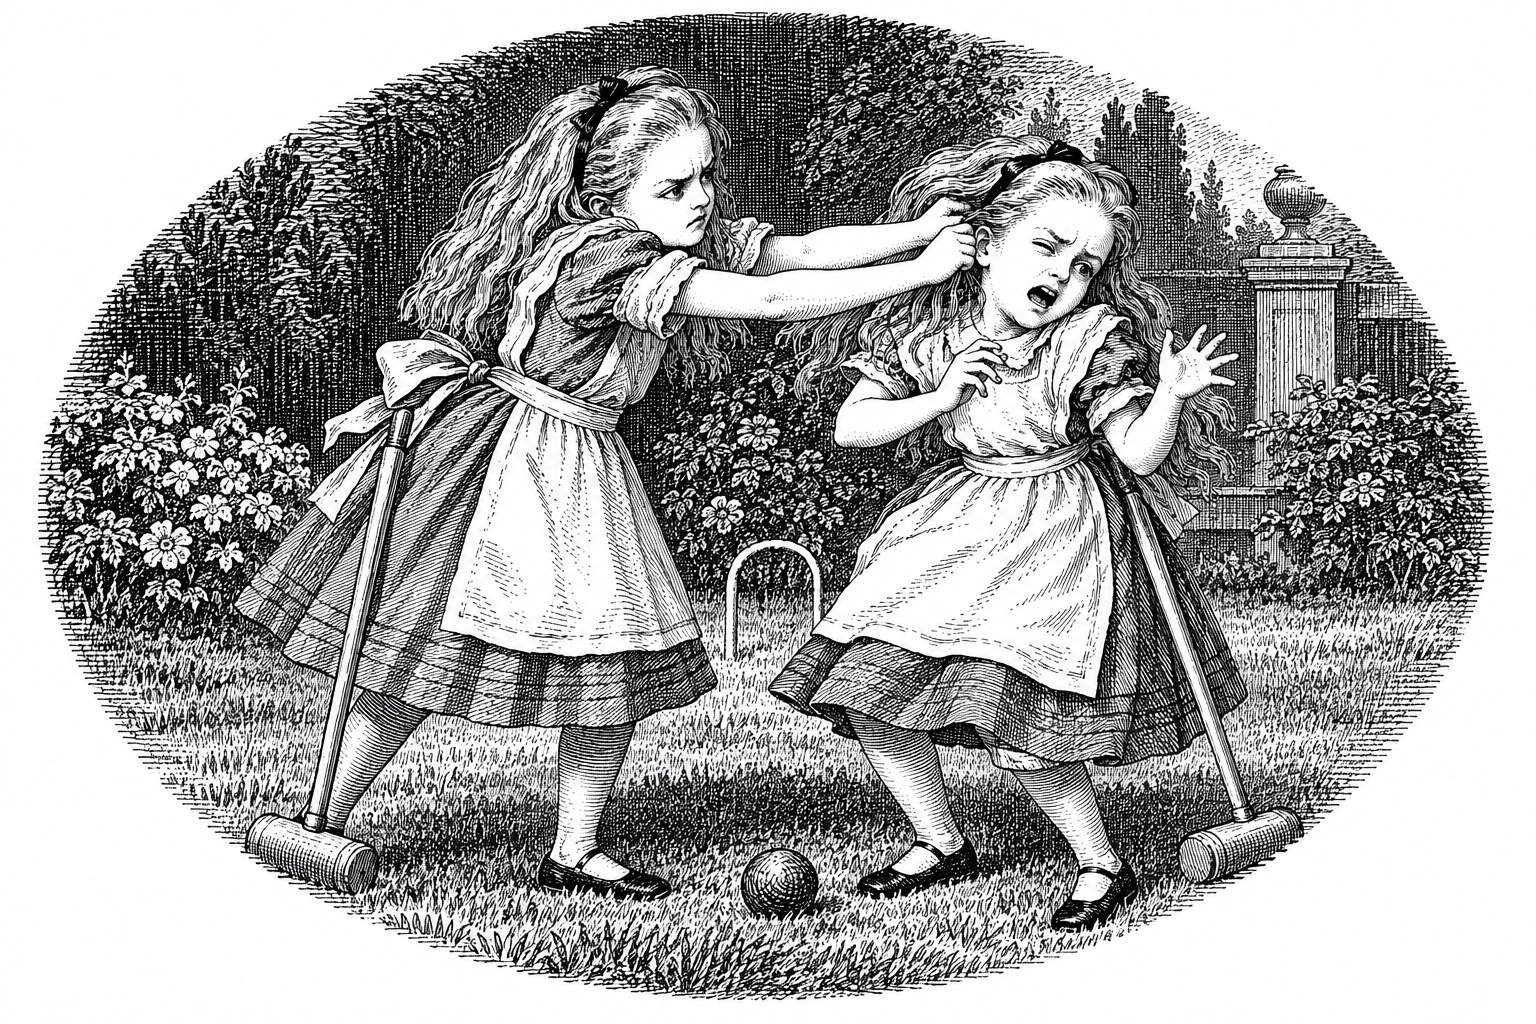
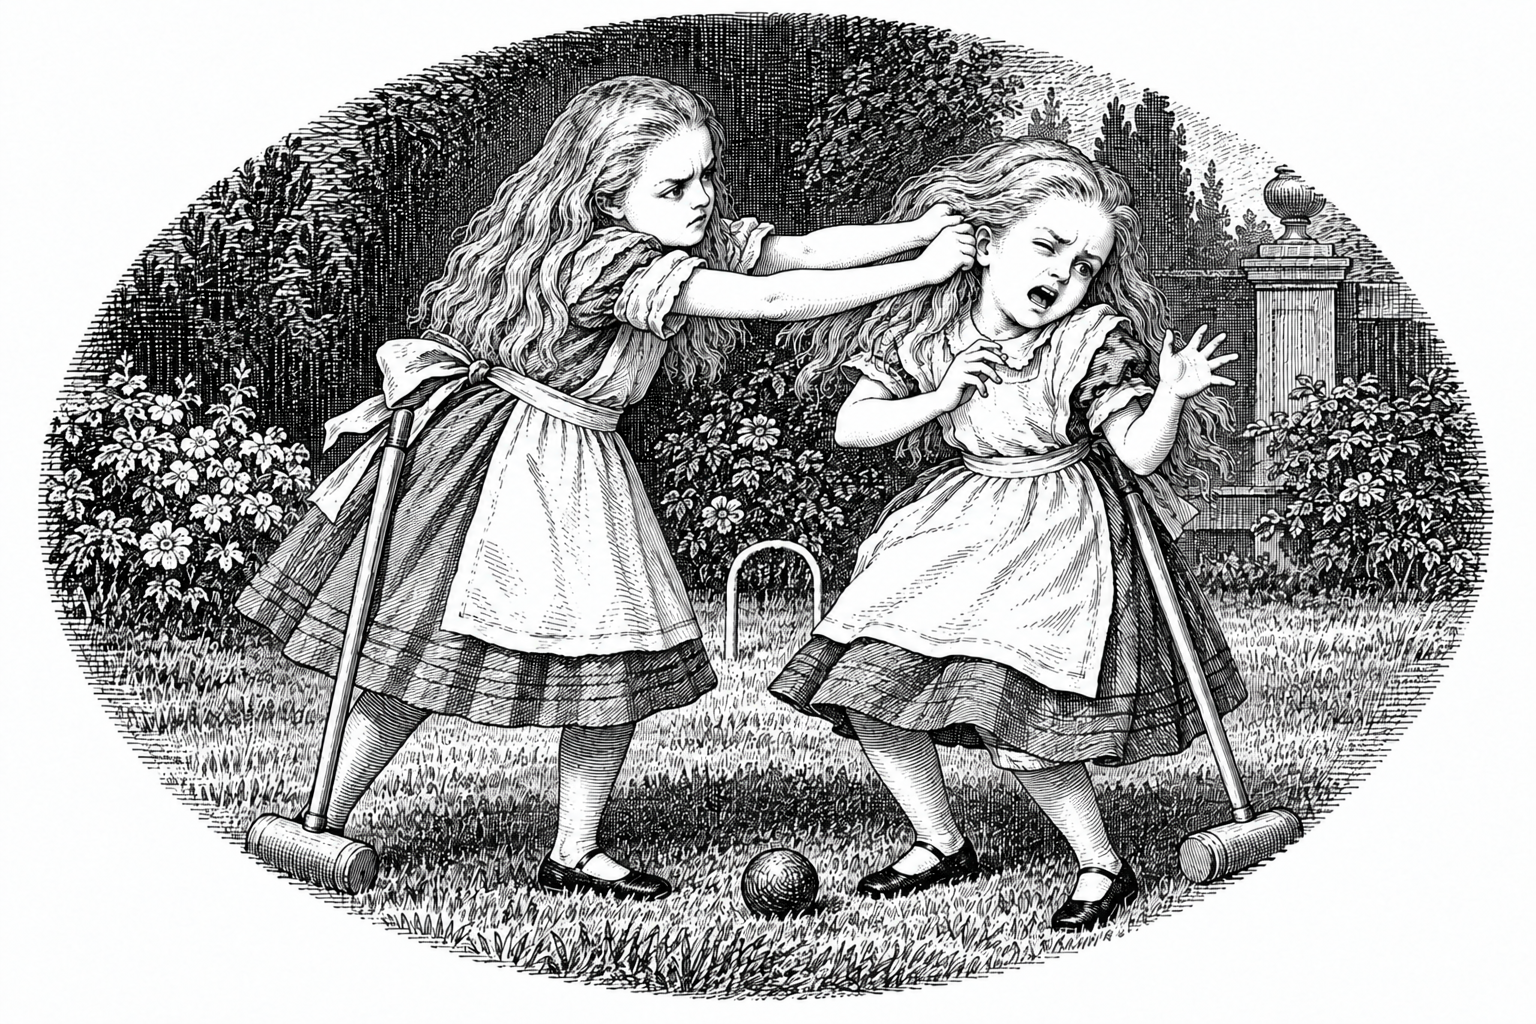
Chapter I thoughts: Alice redrawn without a hair bow in the knife, poison, telescope and croquet vignettes (model sheet attached; owner)
Claude-Session: https://claude.ai/code/session_01JLwjHTre9qSRtmM6Ke648R

diff --git a/PROVENANCE.md b/PROVENANCE.md
@@ -98,11 +98,11 @@ Every shipped asset is listed here with its source. AI-generated or AI-modified 
 | ai_vignette_crocodile | `public/art/ai/vignettes/crocodile.webp` | AI | Generated in the same conversation (docs/ASSETS_MASTER.md, Chapter II prompt 32); original in `source/ai/vignette_crocodile.webp` | OpenAI ChatGPT (GPT-6 chat); OpenAI image generation, exact image model not disclosed; received 2026-10-11 | Whole image generated. Paper-tinted, fitted to the thought oval and outlined (`tools/ch2_art.py`). Used in Chapter II. | 2026-10-11 | Owner (generated), Claude Code (processed) |
 | ai_vignette_histories | `public/art/ai/vignettes/histories.webp` | AI | Chapter I prompt 44; original in `source/ai/vignette_histories.png`, style from `source/ai/vignette_dinah.webp` | OpenAI gpt-image-2.5-sunburst via the API (generated by Claude Code, 2026-10-14) | Whole image generated. Paper-tinted, fitted to the thought oval and outlined (`tools/ch1_art.py`). Used in Chapter I, the hall. | 2026-10-14 | Owner (requested), Claude Code (generated, processed) |
 | ai_vignette_poker | `public/art/ai/vignettes/poker.webp` | AI | Chapter I prompt 27; original in `source/ai/vignette_poker.png`, style from `source/ai/vignette_dinah.webp` | OpenAI gpt-image-2.5-sunburst via the API (generated by Claude Code, 2026-10-14) | Whole image generated. Paper-tinted, fitted to the thought oval and outlined (`tools/ch1_art.py`). The poker's tip coloured red-hot in code (COLOR.md). Used in Chapter I, the hall. | 2026-10-14 | Owner (requested), Claude Code (generated, processed) |
-| ai_vignette_knife | `public/art/ai/vignettes/knife.webp` | AI | Chapter I prompt 28; original in `source/ai/vignette_knife.png`, style from `source/ai/vignette_dinah.webp` | OpenAI gpt-image-2.5-sunburst via the API (generated by Claude Code, 2026-10-14) | Whole image generated. Paper-tinted, fitted to the thought oval and outlined (`tools/ch1_art.py`). Used in Chapter I, the hall. | 2026-10-14 | Owner (requested), Claude Code (generated, processed) |
-| ai_vignette_poison | `public/art/ai/vignettes/poison.webp` | AI | Chapter I prompt 29, redrawn close up so POISON can be read (owner); original in `source/ai/vignette_poison.png`, style from `source/ai/vignette_dinah.webp` | OpenAI gpt-image-2.5-sunburst via the API (generated by Claude Code, 2026-10-14) | Whole image generated. Paper-tinted, fitted to the thought oval and outlined (`tools/ch1_art.py`). Used in Chapter I, the hall. | 2026-10-14 | Owner (requested), Claude Code (generated, processed) |
-| ai_vignette_telescope | `public/art/ai/vignettes/telescope.webp` | AI | Chapter I prompt 45; original in `source/ai/vignette_telescope.png`, style from `source/ai/vignette_dinah.webp` | OpenAI gpt-image-2.5-sunburst via the API (generated by Claude Code, 2026-10-14) | Whole image generated. Paper-tinted, fitted to the thought oval and outlined (`tools/ch1_art.py`). Used in Chapter I, the hall. | 2026-10-14 | Owner (approved), Claude Code (generated, processed) |
+| ai_vignette_knife | `public/art/ai/vignettes/knife.webp` | AI | Chapter I prompt 28; original in `source/ai/vignette_knife.png`, style from `source/ai/vignette_dinah.webp`; redrawn with the model sheet so Alice has no hair bow (owner) | OpenAI gpt-image-2.5-sunburst via the API (generated by Claude Code, 2026-10-14) | Whole image generated. Paper-tinted, fitted to the thought oval and outlined (`tools/ch1_art.py`). Used in Chapter I, the hall. | 2026-10-14 | Owner (requested), Claude Code (generated, processed) |
+| ai_vignette_poison | `public/art/ai/vignettes/poison.webp` | AI | Chapter I prompt 29, redrawn close up so POISON can be read (owner); original in `source/ai/vignette_poison.png`, style from `source/ai/vignette_dinah.webp`; redrawn with the model sheet so Alice has no hair bow (owner) | OpenAI gpt-image-2.5-sunburst via the API (generated by Claude Code, 2026-10-14) | Whole image generated. Paper-tinted, fitted to the thought oval and outlined (`tools/ch1_art.py`). Used in Chapter I, the hall. | 2026-10-14 | Owner (requested), Claude Code (generated, processed) |
+| ai_vignette_telescope | `public/art/ai/vignettes/telescope.webp` | AI | Chapter I prompt 45; original in `source/ai/vignette_telescope.png`, style from `source/ai/vignette_dinah.webp`; redrawn with the model sheet so Alice has no hair bow (owner) | OpenAI gpt-image-2.5-sunburst via the API (generated by Claude Code, 2026-10-14) | Whole image generated. Paper-tinted, fitted to the thought oval and outlined (`tools/ch1_art.py`). Used in Chapter I, the hall. | 2026-10-14 | Owner (approved), Claude Code (generated, processed) |
 | ai_vignette_candle | `public/art/ai/vignettes/candle.webp` | AI | Chapter I prompt 32; original in `source/ai/vignette_candle.png`, style from `source/ai/vignette_dinah.webp` | OpenAI gpt-image-2.5-sunburst via the API (generated by Claude Code, 2026-10-14) | Whole image generated. Paper-tinted, fitted to the thought oval and outlined (`tools/ch1_art.py`). Used in Chapter I, the hall. | 2026-10-14 | Owner (approved), Claude Code (generated, processed) |
-| ai_vignette_croquet | `public/art/ai/vignettes/croquet.webp` | AI | Chapter I prompt 46; original in `source/ai/vignette_croquet.png`, style from `source/ai/vignette_dinah.webp` | OpenAI gpt-image-2.5-sunburst via the API (generated by Claude Code, 2026-10-14) | Whole image generated. Paper-tinted, fitted to the thought oval and outlined (`tools/ch1_art.py`). Used in Chapter I, the hall. | 2026-10-14 | Owner (approved), Claude Code (generated, processed) |
+| ai_vignette_croquet | `public/art/ai/vignettes/croquet.webp` | AI | Chapter I prompt 46; original in `source/ai/vignette_croquet.png`, style from `source/ai/vignette_dinah.webp`; redrawn with the model sheet so Alice has no hair bow (owner) | OpenAI gpt-image-2.5-sunburst via the API (generated by Claude Code, 2026-10-14) | Whole image generated. Paper-tinted, fitted to the thought oval and outlined (`tools/ch1_art.py`). Used in Chapter I, the hall. | 2026-10-14 | Owner (approved), Claude Code (generated, processed) |
 | ai_vignette_seaside | `public/art/ai/vignettes/seaside.webp` | AI | Generated in the same conversation (docs/ASSETS_MASTER.md, Chapter II prompt 33); original in `source/ai/vignette_seaside.webp` | OpenAI ChatGPT (GPT-6 chat); OpenAI image generation, exact image model not disclosed; received 2026-10-11 | Whole image generated. Paper-tinted, fitted to the thought oval and outlined (`tools/ch2_art.py`). Used in Chapter II. | 2026-10-11 | Owner (generated), Claude Code (processed) |
 | ai_vignette_walrus | `public/art/ai/vignettes/walrus.webp` | AI | Generated in the same conversation (docs/ASSETS_MASTER.md, Chapter II prompt 34); original in `source/ai/vignette_walrus.webp` | OpenAI ChatGPT (GPT-6 chat); OpenAI image generation, exact image model not disclosed; received 2026-10-11 | Whole image generated. Paper-tinted, fitted to the thought oval and outlined (`tools/ch2_art.py`). Used in Chapter II. | 2026-10-11 | Owner (generated), Claude Code (processed) |
 | ai_vignette_dinah_fire | `public/art/ai/vignettes/dinah_fire.webp` | AI | Generated in the same conversation (docs/ASSETS_MASTER.md, Chapter II prompt 35); original in `source/ai/vignette_dinah_fire.webp` | OpenAI ChatGPT (GPT-6 chat); OpenAI image generation, exact image model not disclosed; received 2026-10-11 | Whole image generated. Paper-tinted, fitted to the thought oval and outlined (`tools/ch2_art.py`). Used in Chapter II. | 2026-10-11 | Owner (generated), Claude Code (processed) |

diff --git a/docs/HANDOFF.md b/docs/HANDOFF.md
@@ -70,7 +70,7 @@ Updated: 2026-10-13 (end of session 3: Chapters I–II art in, Chapter III's Ali
 - **Thought cards must be readable on a phone** (owner, 2026-10-14): draw the thing named large and close (e.g. the POISON label), and `keepThoughtsInView` keeps every open card at least ~220 screen pixels wide. On a small portrait phone a card can then cover part of Alice.
 - **Re-direct the chapter's camera when its art arrives** (owner, 2026-10-13): Alice in the picture at least every 10–15 s unless the text takes her out (her point of view, close-ups of a prop, another character alone). Check with `node tools/frame_report.mjs URL N` (lists the stretches with Alice on stage but out of the picture). Watch mode already turns the camera to take her in when a shot only cuts her at the edge, and thought cards are kept in the picture (`keepAliceInFrame` in main.js, `keepThoughtsInView` in thoughts.js). Worst so far: Chapters XI, XII, III (VI done 2026-10-14).
 - **Log every asset in PROVENANCE.md** (AI disclosure for Steam), then rerun `python3 tools/assets_master.py` (ticks it).
-- Alice's model sheet is `source/ai/alice_turnaround.webp`: every Alice drawing must match it.
+- Alice's model sheet is `source/ai/alice_turnaround.webp`: every Alice drawing must match it, thought vignettes included (attach it whenever a girl appears; without it the AI adds a hair bow). The book gives her no bow or ribbon: long loose hair (owner, 2026-10-14).
 
 ## The owner
 Works on Windows, with VS Code and GitHub; not a programmer. Prefers brief, kind, factual replies with honest pushback, and decisions put to them with a recommendation. Generates the AI art in ChatGPT (one conversation for everything) and uploads it; you write the prompts. Tests the web link and the Windows build from GitHub Actions.
